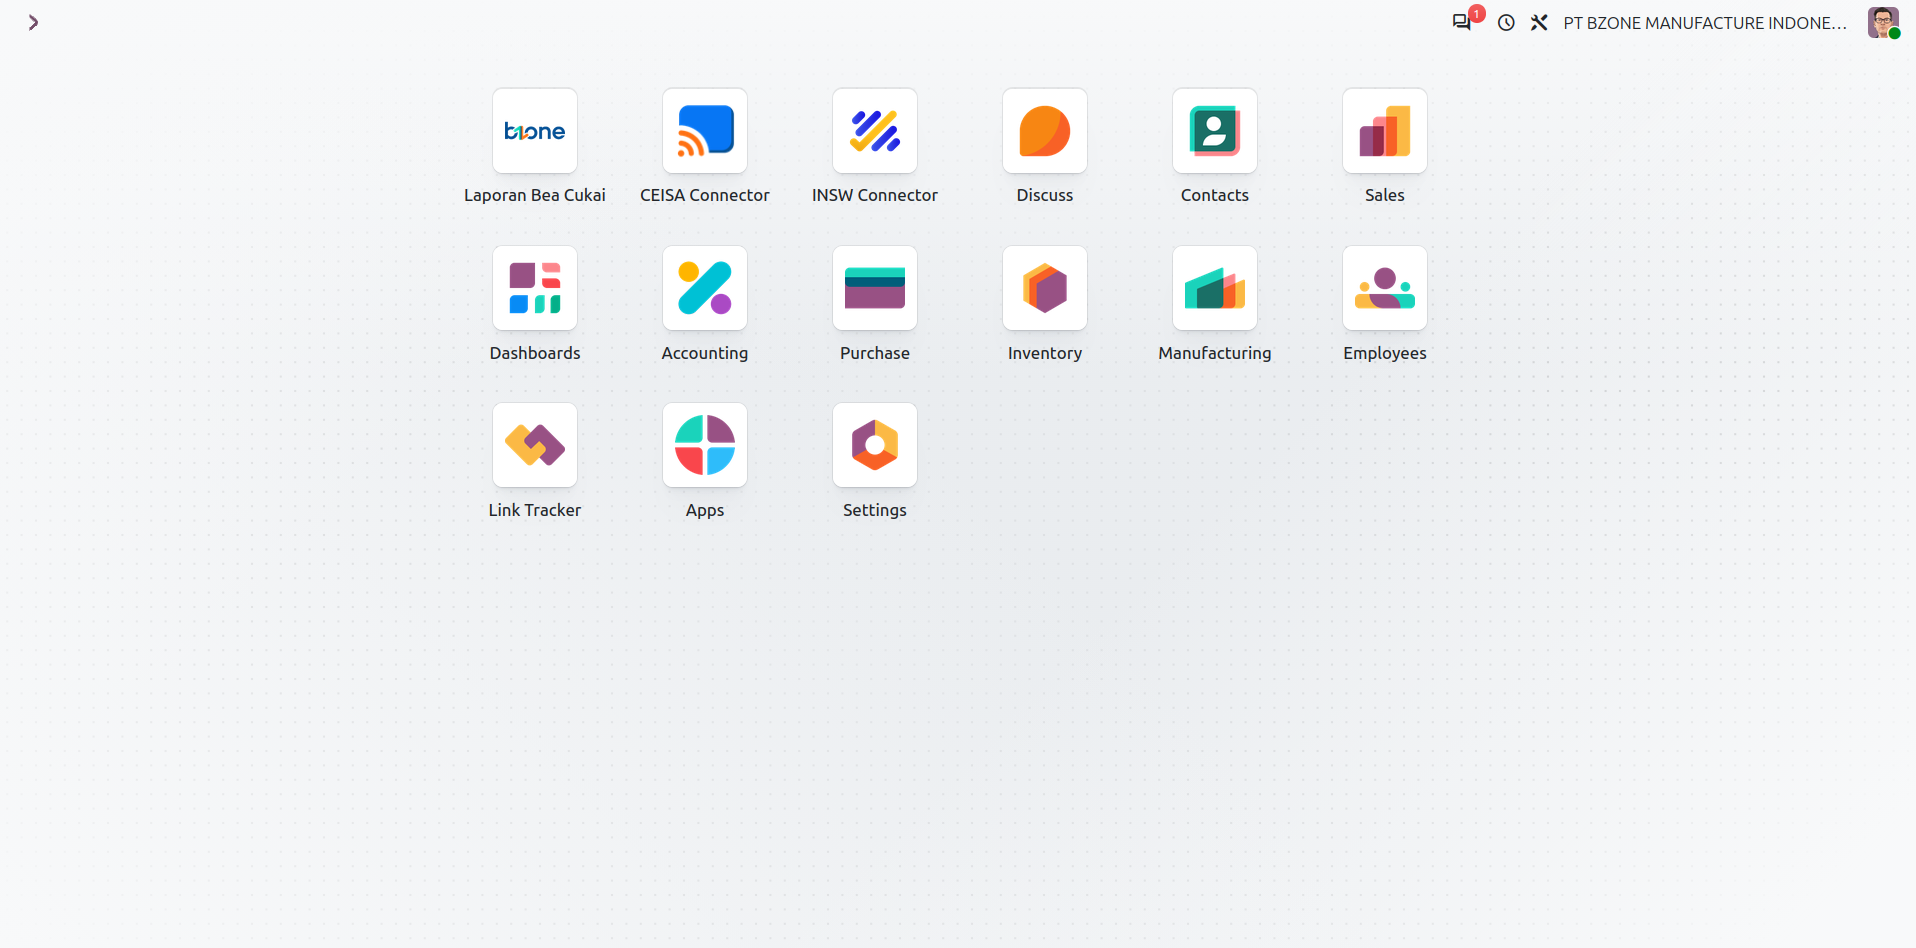
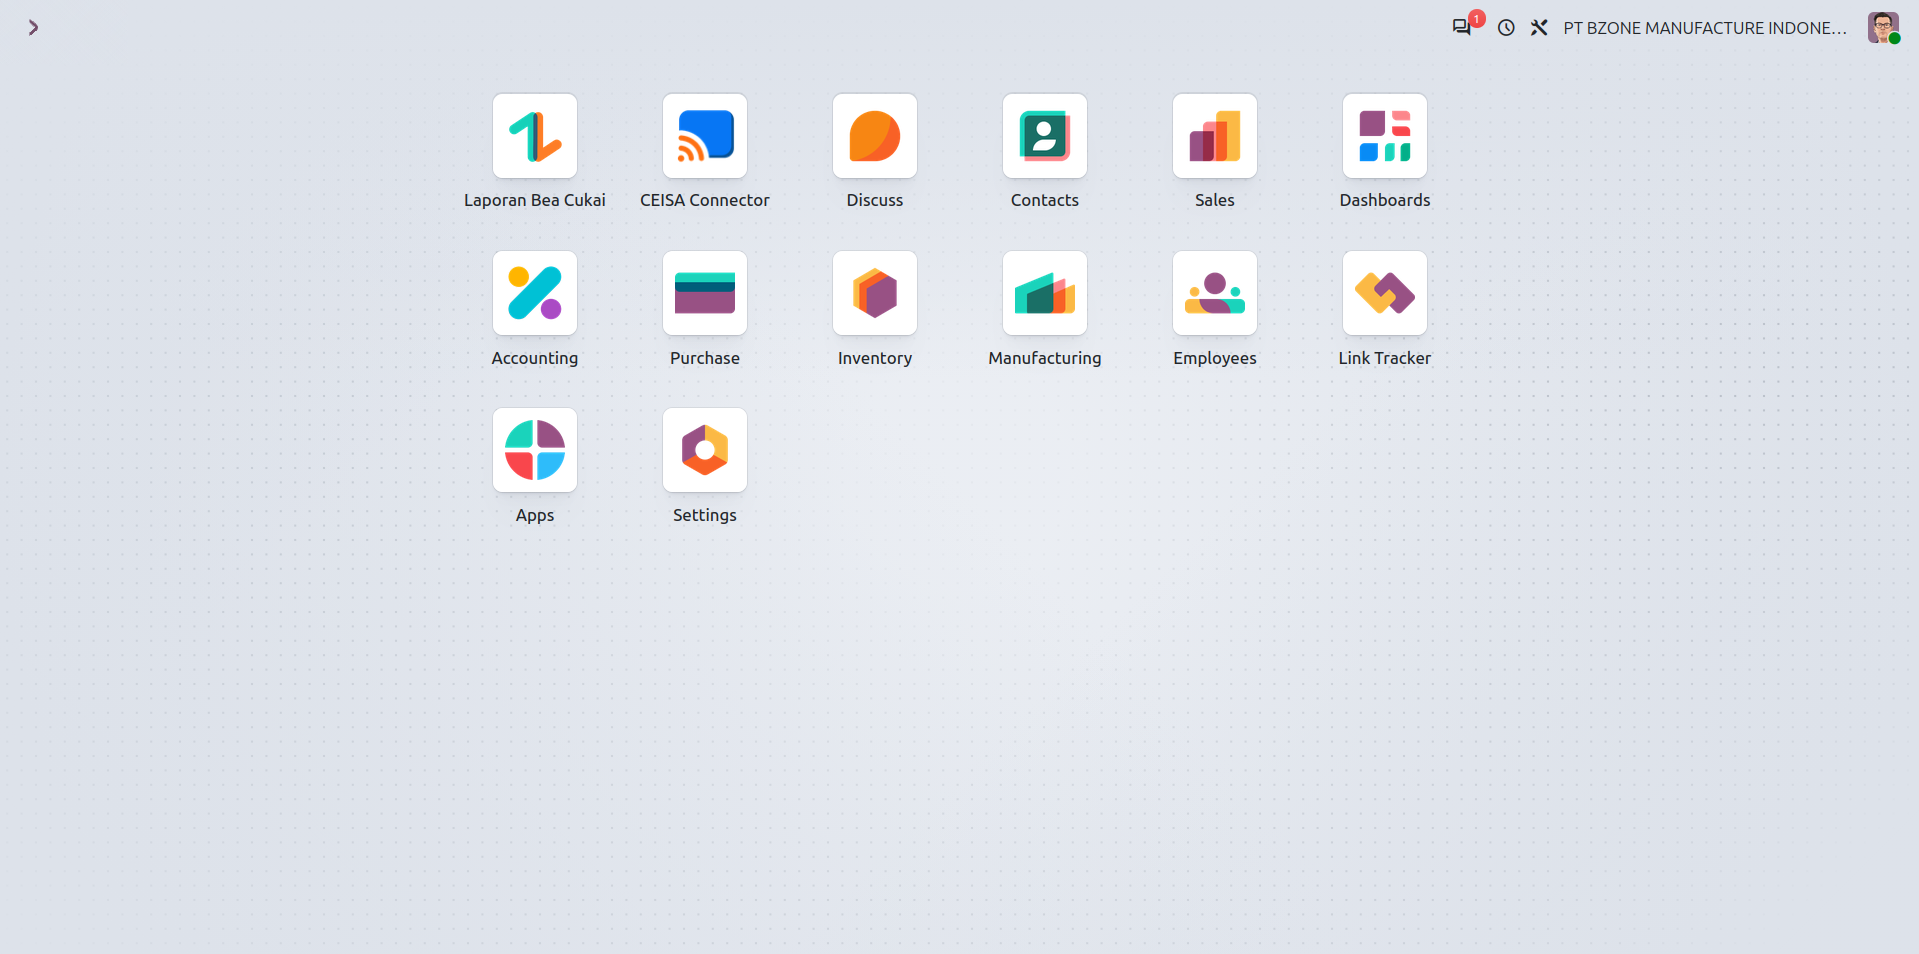
[ADD]ceisa documentation

diff --git a/id/master_data/produk.md b/id/master_data/produk.md
@@ -11,13 +11,13 @@ Untuk membuat data master produk baru pada sistem:
 1. Buka modul **Inventory** atau **Sales** / **Purchase**.
 
 ![Tampilan Menu Utama Odoo](/assets/images/main_menu.png)
-*Gambar 1.1: Menu Utama Odoo 19.*
+*Gambar 1.1: Menu Utama Odoo 20.*
 
 2. Masuk ke menu **Products → Products**.
 3. Klik tombol **New** pada pojok kiri atas antarmuka.
 
 ![Tampilan Formulir Master Produk Baru](/assets/images/master_produk_general.png)
-*Gambar 1.2: Formulir pembuatan master data produk baru pada Odoo 19.*
+*Gambar 1.2: Formulir pembuatan master data produk baru pada Odoo 20.*
 
 ---
 

diff --git a/en/master_data/produk.md b/en/master_data/produk.md
@@ -13,7 +13,7 @@ To create a new product master record:
 3. Click the **New** button in the upper-left corner.
 
 ![Product Master Form View](../assets/images/master_produk_general.png)
-*Figure 1.1: Product master creation form in Odoo 19.*
+*Figure 1.1: Product master creation form in Odoo 20.*
 
 ---
 
